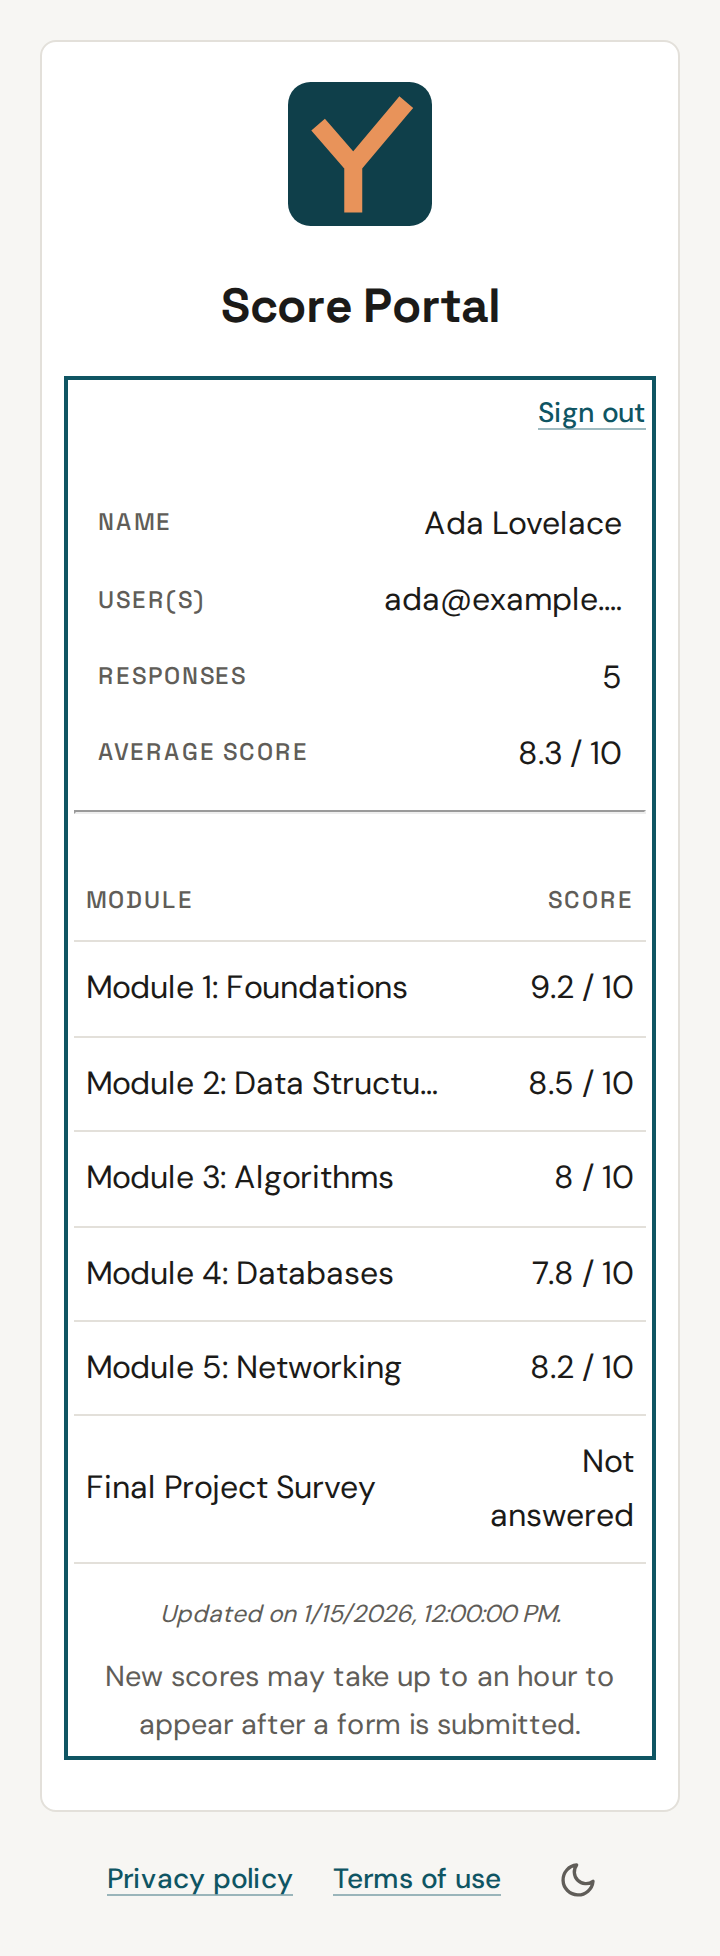
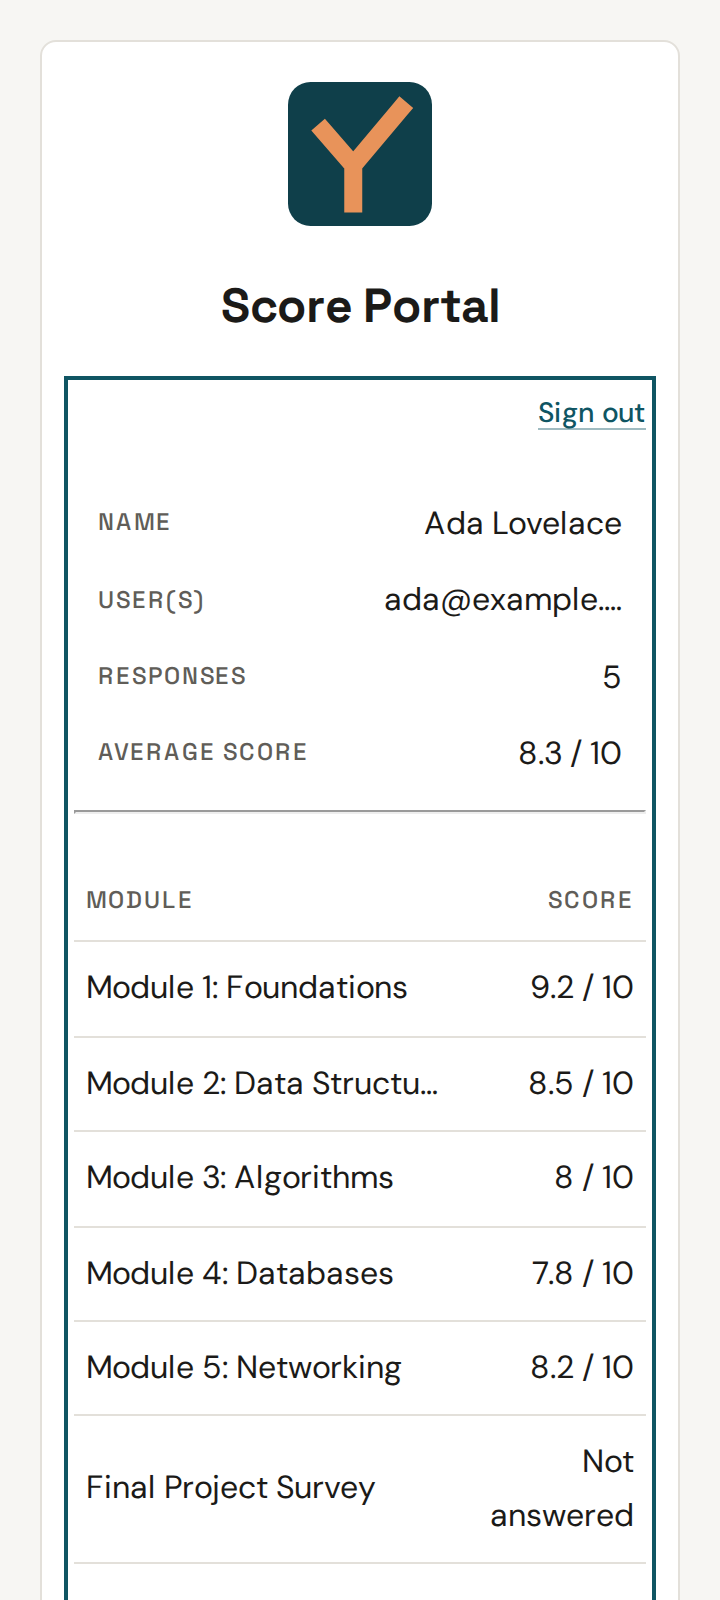
fix(scripts): capture the mobile shot at a phone viewport
Full-page capture made the 360 px shot 978 px tall, which no longer
reads as a phone screen. Make fullPage a per-shot flag, keep it for the
desktop results shots so the footer and theme toggle stay visible, and
capture the mobile shot at a 360x800 viewport.

diff --git a/scripts/screenshots.js b/scripts/screenshots.js
@@ -48,7 +48,10 @@ const SCORES = {
   ],
 };
 
-/** Capture definitions: output file, viewport, and whether a session is resumed. */
+/**
+ * Capture definitions: output file, viewport, colour scheme, whether a session
+ * is resumed, and whether to capture the full page instead of the viewport.
+ */
 const SHOTS = [
   {
     file: 'sign-in-light.png',
@@ -61,16 +64,18 @@ const SHOTS = [
     viewport: { width: 1024, height: 859 },
     scheme: 'light',
     signedIn: true,
+    fullPage: true,
   },
   {
     file: 'results-dark.png',
     viewport: { width: 1024, height: 859 },
     scheme: 'dark',
     signedIn: true,
+    fullPage: true,
   },
   {
     file: 'results-mobile.png',
-    viewport: { width: 360, height: 804 },
+    viewport: { width: 360, height: 800 },
     scheme: 'light',
     signedIn: true,
   },
@@ -184,7 +189,7 @@ async function capture(browser, html, shot, problems) {
     const unstubbed = new Set(await readUnstubbed());
     await page.screenshot({
       path: join(outDir, shot.file),
-      fullPage: true,
+      fullPage: shot.fullPage ?? false,
       animations: 'disabled',
       caret: 'hide',
     });
